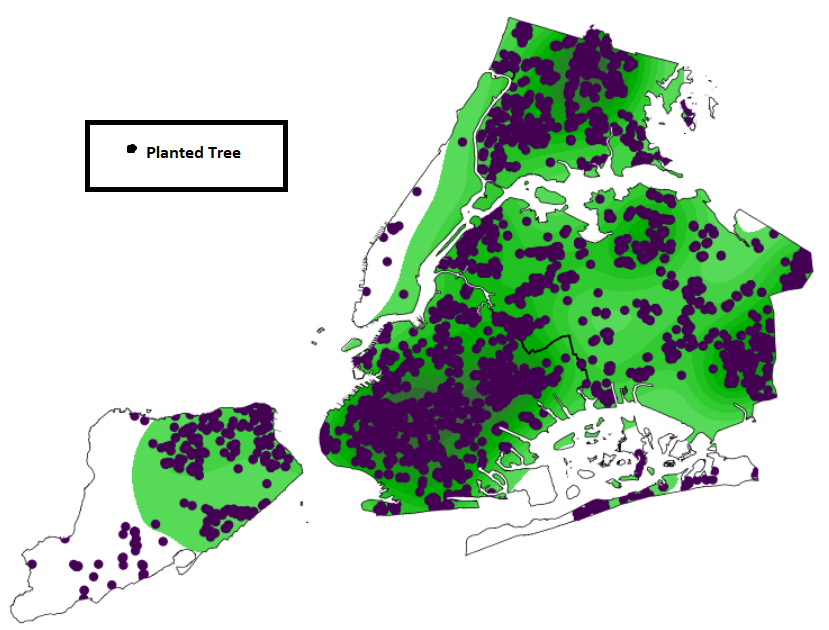
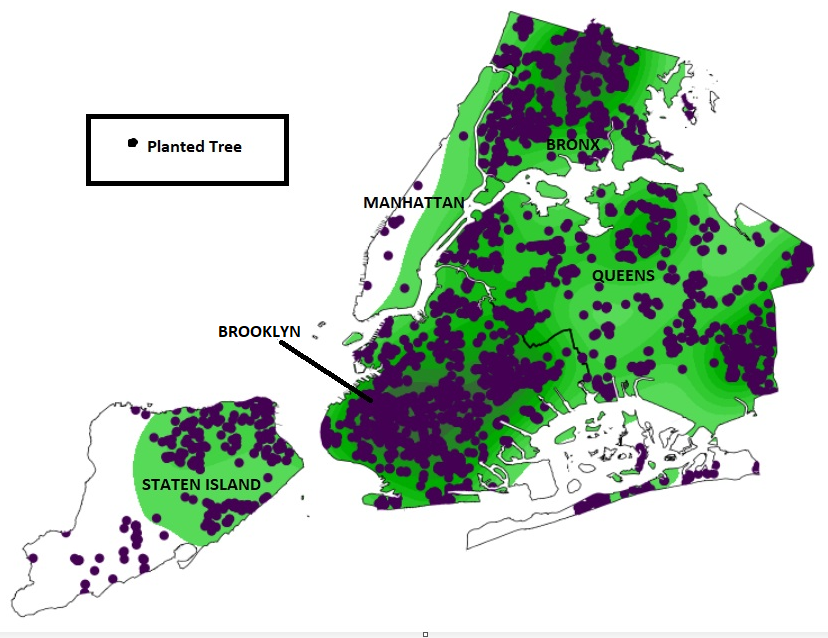
fix: updated static map with labels

Changed region(s): [[0.0, 0.0, 0.9964, 0.9952], [0.0906, 0.1508, 0.3623, 0.3317], [0.0906, 0.6635, 0.1208, 0.8143]]

diff --git a/index.html b/index.html
@@ -91,8 +91,7 @@
       </section>
 
       <section class="results" id="results">
-        <div class="results__header">
-        </div>
+        <div class="results__header"></div>
         <div class="results__static-map">
           <img
             src="./images/static_map.png"
